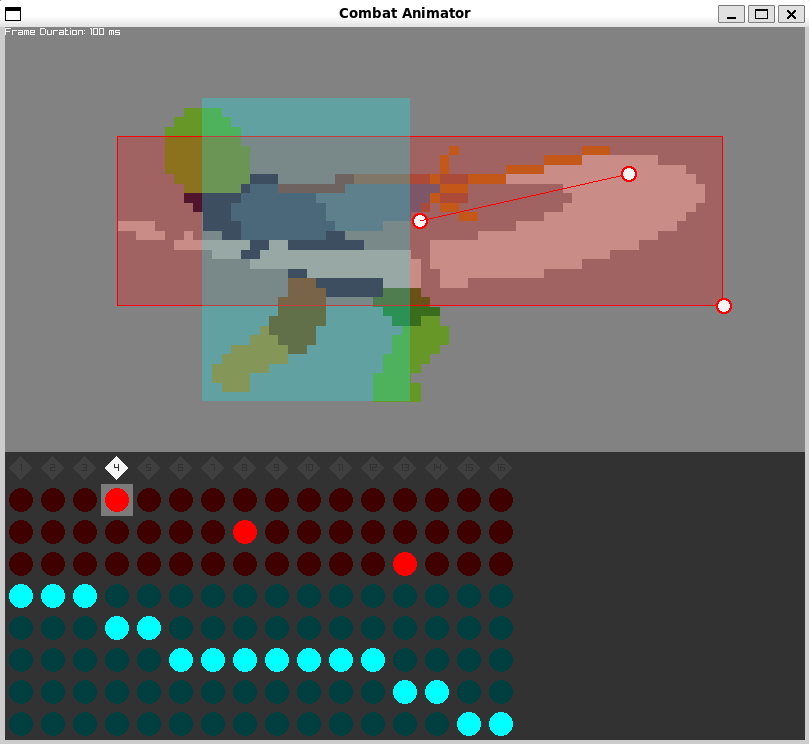
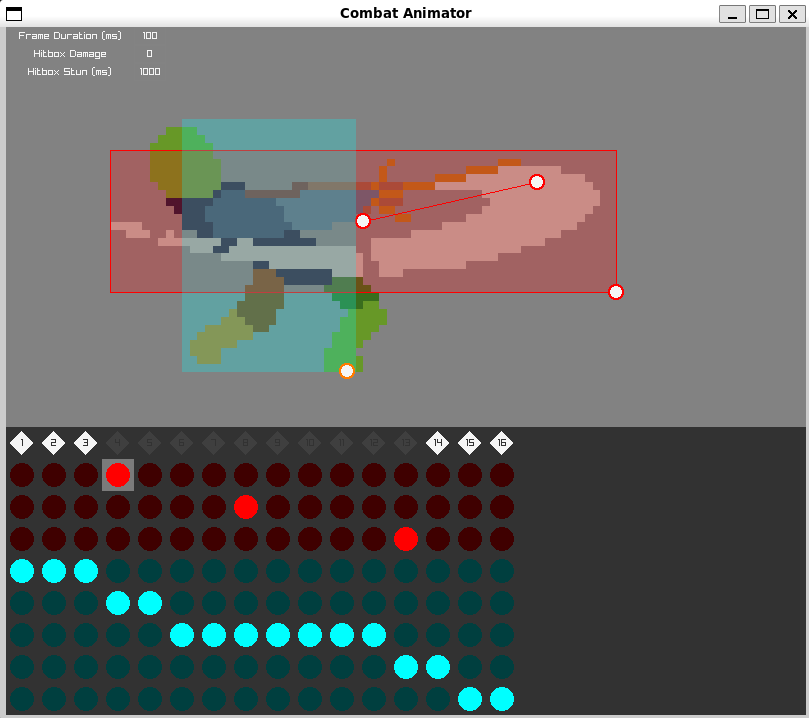
Updated readme to reflect current state of application.

diff --git a/main.c b/main.c
@@ -179,7 +179,8 @@ int main(int argc, char **argv) {
         CloseWindow();
         return EXIT_FAILURE;
     }
-
+   
+    GuiSetStyle(DEFAULT, TEXT_COLOR_NORMAL, ColorToInt(RAYWHITE));
     GuiSetStyle(LABEL, TEXT_ALIGNMENT, TEXT_ALIGN_CENTER);
     const int fontSize = GetFontDefault().baseSize;
 
@@ -449,7 +450,7 @@ int main(int argc, char **argv) {
         if (state.shapeIdx >= 0 && state.shapes[state.shapeIdx].boxType == HITBOX) {
             Rectangle rectDamageLabel = rectFrameDurationLabel;
             rectDamageLabel.y += rectDamageLabel.height;
-            GuiLabel(rectDamageLabel, "Damage");
+            GuiLabel(rectDamageLabel, "Hitbox Damage");
             
             Rectangle rectDamageValue = rectDamageLabel;
             rectDamageValue.x += rectDamageValue.width;
@@ -460,7 +461,7 @@ int main(int argc, char **argv) {
 
             Rectangle rectStunLabel = rectDamageLabel;
             rectStunLabel.y += rectStunLabel.height;
-            GuiLabel(rectStunLabel, "Stun (ms)");
+            GuiLabel(rectStunLabel, "Hitbox Stun (ms)");
             
             Rectangle rectStunValue = rectStunLabel;
             rectStunValue.x += rectStunValue.width;

diff --git a/readme.md b/readme.md
@@ -6,24 +6,25 @@ As such, this readme may not be up-to-date.
 
 Building: Linux only. Install cJson 1.7.15, raylib 4.2, and their respective dependencies to `/usr/local/include`. Run `make build` to build.
 
-Usage: cac [path to image file (with .png extension.)]<br>
-Saves are written to a .json file with the same name as the image file.
+### Usage
+"cac [file].png": Edit the metadata for the given file. If no metadata exists, create it and edit that. Metadata is stored in a .json file with the same name as the image file.
 
-|        Action         |            Key             |
-|:---------------------:|:--------------------------:|
-|         Save          |          Ctrl + S          |
-|         Undo          |          Ctrl + Z          |
-|         Redo          |      Ctrl + Shift + Z      |
-|          Pan          |     Left Mouse Button      |
-|         Zoom          |        Mouse Wheel         |
-|       Add frame       |          Alt + N           |
-|     Remove frame      |       Alt + Backspace      |
-|    Play animation     |           Enter            |
-|      New circle       |          Ctrl + 1          |
-|      New square       |          Ctrl + 2          |
-|     New rectangle     |          Ctrl + 3          |
-|      Remove shape     |      Ctrl + Backspace      |
-|      New hurtbox      |   Shape Shortcut + Shift   |
-|  Edit frame duration  | Ctrl + D, Enter to confirm |
-| Move through timeline |         Arrow Keys         |
-| Toggle selected value |          Space Bar         |
+"cac -u": Update all metadata files in the current directory and its subdirectories to the latest metadata version.
+
+|           Action            |            Key             |
+|:---------------------------:|:--------------------------:|
+|            Save             |          Ctrl + S          |
+|            Undo             |          Ctrl + Z          |
+|            Redo             |      Ctrl + Shift + Z      |
+|             Pan             |     Left Mouse Button      |
+|            Zoom             |        Mouse Wheel         |
+|          Add frame          |          Alt + N           |
+|        Remove frame         |      Alt + Backspace       |
+| Enter text / Play animation |           Enter            |
+|         New circle          |          Ctrl + 1          |
+|         New square          |          Ctrl + 2          |
+|        New rectangle        |          Ctrl + 3          |
+|        Remove shape         |      Ctrl + Backspace      |
+|         New hurtbox         |     New shape + Shift      |
+|    Move through timeline    |         Arrow Keys         |
+|    Toggle timeline value    |         Space Bar          |
